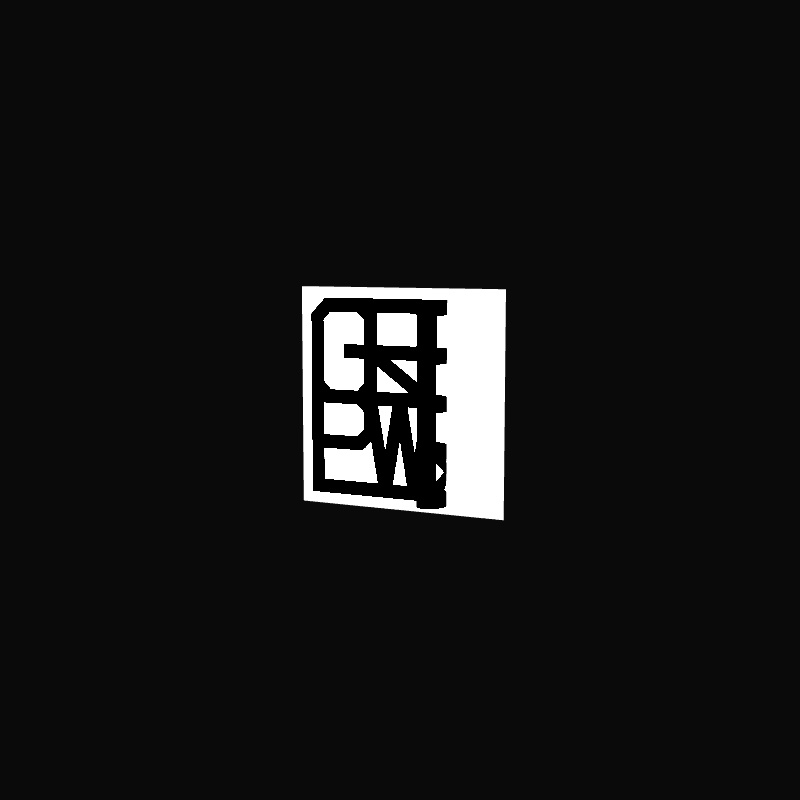
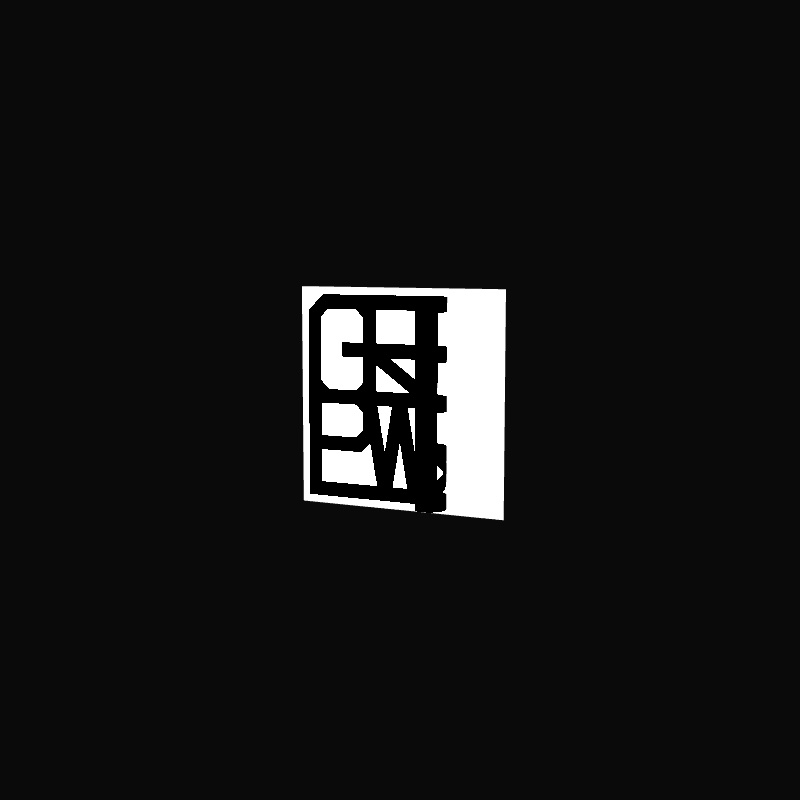
sticker: margin to the paper edge 3.5 %

Changed region(s): [[0.375, 0.3438, 0.5625, 0.625], [0.5, 0.625, 0.5625, 0.6562]]

diff --git a/dist/assets/index.797ccfea.js b/dist/assets/index.797ccfea.js
@@ -1,0 +1,28 @@
+import"./modulepreload-polyfill.b7f2da20.js";import{W as Y,C as R,S as z,c as D,G as k,M as L,e as V,f as G,D as g,g as I,h as T,i as W,j as _}from"./vendor.1a2da625.js";const j="M216 60H184.927M216 60V91.0733M216 60H350.122M216 300H184.927M216 300V268.927M216 300V331.073M216 300H300M216 300L258 540M184.927 60H138.073H91.2188L60 91.2188L60.0778 180L60 268.201V300M60 300H91.7993M60 300V420M384 60V93.8779M384 60H350.122M384 60H508.946H540V91.0538V148.655V180M384 300H540M384 300V180M384 300V420M384 300L216 180M384 300H300M384 300L342 540M540 420V435.527V540H384M384 540V420M384 540H363M540 540L384 420M184.927 60L216 91.0733M216 91.0733V180M60 268.201L91.7993 300M91.7993 300H184.927M184.927 300L216 268.927M184.927 300L216 331.073M216 268.927V180M216 331.073L216 388.8L184.8 420H60M384 93.8779L350.122 60M384 93.8779V148.866M540 300V268.946V211.346V180M540 300V331.054V388.623V420M216 180H138.073M216 180H352.866M384 180V148.866M384 180H540M384 180H352.866M60 420V540H216H258M384 420H540M384 420L363 540M352.866 180L384 148.866M300 300L258 540M300 300L342 540M258 540H300H342M342 540H363";function F(){const t=document.createElement("canvas");t.width=t.height=1024;const a=t.getContext("2d"),u=1024*.035,h=(1024-2*u)/516;a.translate(u,u),a.scale(h,h),a.translate(-42,-42),a.lineWidth=36,a.strokeStyle="#000",a.stroke(new Path2D(j));const f=new W(t);return f.anisotropy=4,f}const d=document.getElementById("sticker"),p=new Y({canvas:d,antialias:!0});p.setClearColor(new R(657930),1);const x=new z,i=new D(35,1,.01,100);i.position.z=3;const m=new k;x.add(m);const y=new L(new V(1,1),new G({color:16777215,side:g}));m.add(y);const E=new I({side:g,transparent:!0,uniforms:{map:{value:F()},roll:{value:0},radius:{value:.07}},vertexShader:`
+    uniform float roll;
+    uniform float radius;
+    varying vec2 vUv;
+    void main() {
+      vUv = uv;
+      vec3 p = position;
+      // the unrolled part lies flat; from 'edge' to the right the layer winds up into a spiral
+      float edge = 0.5 - roll * 1.02;
+      if (p.x > edge) {
+        float s = p.x - edge;                                     // length already rolled
+        float r = radius * (1.0 + 0.12 * s / radius / 6.2831853); // grows a little per turn
+        float th = s / r;
+        p.x = edge + r * sin(th);
+        p.z = r * (1.0 - cos(th));
+      }
+      p.z += 0.0015; // printed on top of the paper
+      gl_Position = projectionMatrix * modelViewMatrix * vec4(p, 1.0);
+    }
+  `,fragmentShader:`
+    uniform sampler2D map;
+    varying vec2 vUv;
+    void main() {
+      float a = texture2D(map, vUv).a;
+      if (a < 0.5) discard;
+      gl_FragColor = vec4(0.0, 0.0, 0.0, 1.0);
+    }
+  `});m.add(new L(new V(1,1,256,1),E));function P(){const e=window.innerWidth,t=window.innerHeight;p.setPixelRatio(Math.min(window.devicePixelRatio||1,2)),p.setSize(e,t,!1),i.aspect=e/t;const a=Math.min(e<=768?.55*e:.28*e,.5*t);w=a,i.position.z=t/a/(2*Math.tan(i.fov*Math.PI/360)),i.updateProjectionMatrix()}let v=0,s=0,r=.12,o=-.45,l=0,c=0,w=300;const U=.12,b=-.45,O=2e3;let M=-1e9,n=null;const H=new T,q=(e,t)=>{const a=new _(e/window.innerWidth*2-1,-(t/window.innerHeight)*2+1);return H.setFromCamera(a,i),H.intersectObject(y).length>0},S=e=>Math.min(1,Math.max(0,e));d.addEventListener("pointerdown",e=>{d.setPointerCapture(e.pointerId),n={mode:q(e.clientX,e.clientY)?"roll":"turn",x:e.clientX,y:e.clientY,startX:e.clientX,startRoll:s},l=c=0,M=performance.now()});d.addEventListener("pointermove",e=>{!n||(n.mode==="roll"?s=S(n.startRoll+(n.startX-e.clientX)/w):(c=(e.clientX-n.x)*.004,l=(e.clientY-n.y)*.004,o+=c,r+=l),n.x=e.clientX,n.y=e.clientY,M=performance.now())});const X=()=>{n=null,M=performance.now()};d.addEventListener("pointerup",X);d.addEventListener("pointercancel",X);window.addEventListener("wheel",e=>{e.preventDefault();const t=e.deltaMode===1?e.deltaY*16:e.deltaY;s=S(s+t/(w*2)),M=performance.now()},{passive:!1});function C(e){!n&&e-M>O&&(s+=(0-s)*.04,o+=(b-o)*.04,r+=(U-r)*.04,l=c=0),v+=(s-v)*(n?.mode==="roll"?.5:.15),E.uniforms.roll.value=v,n?.mode!=="turn"&&(o+=c,r+=l,l*=.92,c*=.92),r=Math.max(-.9,Math.min(.9,r)),o=Math.max(-1,Math.min(1,o)),m.rotation.set(r,o,0),p.render(x,i),requestAnimationFrame(C)}window.addEventListener("resize",P);P();requestAnimationFrame(C);

diff --git a/src/sticker/main.ts b/src/sticker/main.ts
@@ -21,13 +21,13 @@ import './sticker.css'
 const LOGO =
   'M216 60H184.927M216 60V91.0733M216 60H350.122M216 300H184.927M216 300V268.927M216 300V331.073M216 300H300M216 300L258 540M184.927 60H138.073H91.2188L60 91.2188L60.0778 180L60 268.201V300M60 300H91.7993M60 300V420M384 60V93.8779M384 60H350.122M384 60H508.946H540V91.0538V148.655V180M384 300H540M384 300V180M384 300V420M384 300L216 180M384 300H300M384 300L342 540M540 420V435.527V540H384M384 540V420M384 540H363M540 540L384 420M184.927 60L216 91.0733M216 91.0733V180M60 268.201L91.7993 300M91.7993 300H184.927M184.927 300L216 268.927M184.927 300L216 331.073M216 268.927V180M216 331.073L216 388.8L184.8 420H60M384 93.8779L350.122 60M384 93.8779V148.866M540 300V268.946V211.346V180M540 300V331.054V388.623V420M216 180H138.073M216 180H352.866M384 180V148.866M384 180H540M384 180H352.866M60 420V540H216H258M384 420H540M384 420L363 540M352.866 180L384 148.866M300 300L258 540M300 300L342 540M258 540H300H342M342 540H363'
 
-/** The printed layer: the logo in black on a transparent square, a thin 5 % margin to the paper edge. */
+/** The printed layer: the logo in black on a transparent square, a thin 3.5 % margin to the paper edge. */
 function logoTexture(): CanvasTexture {
   const px = 1024
   const c = document.createElement('canvas')
   c.width = c.height = px
   const g = c.getContext('2d')!
-  const pad = px * 0.05
+  const pad = px * 0.035
   const k = (px - 2 * pad) / 516
   g.translate(pad, pad)
   g.scale(k, k)

diff --git a/dist/sticker/index.html b/dist/sticker/index.html
@@ -5,7 +5,7 @@
     <meta charset="UTF-8" />
     <meta name="viewport" content="width=device-width, initial-scale=1.0, user-scalable=no" />
     <title>sticker — grbpwr</title>
-  <script type="module" crossorigin src="/assets/index.4fac63d9.js"></script>
+  <script type="module" crossorigin src="/assets/index.797ccfea.js"></script>
   <link rel="modulepreload" href="/assets/modulepreload-polyfill.b7f2da20.js">
   <link rel="modulepreload" href="/assets/vendor.1a2da625.js">
   <link rel="stylesheet" href="/assets/index.873b5fcb.css">
